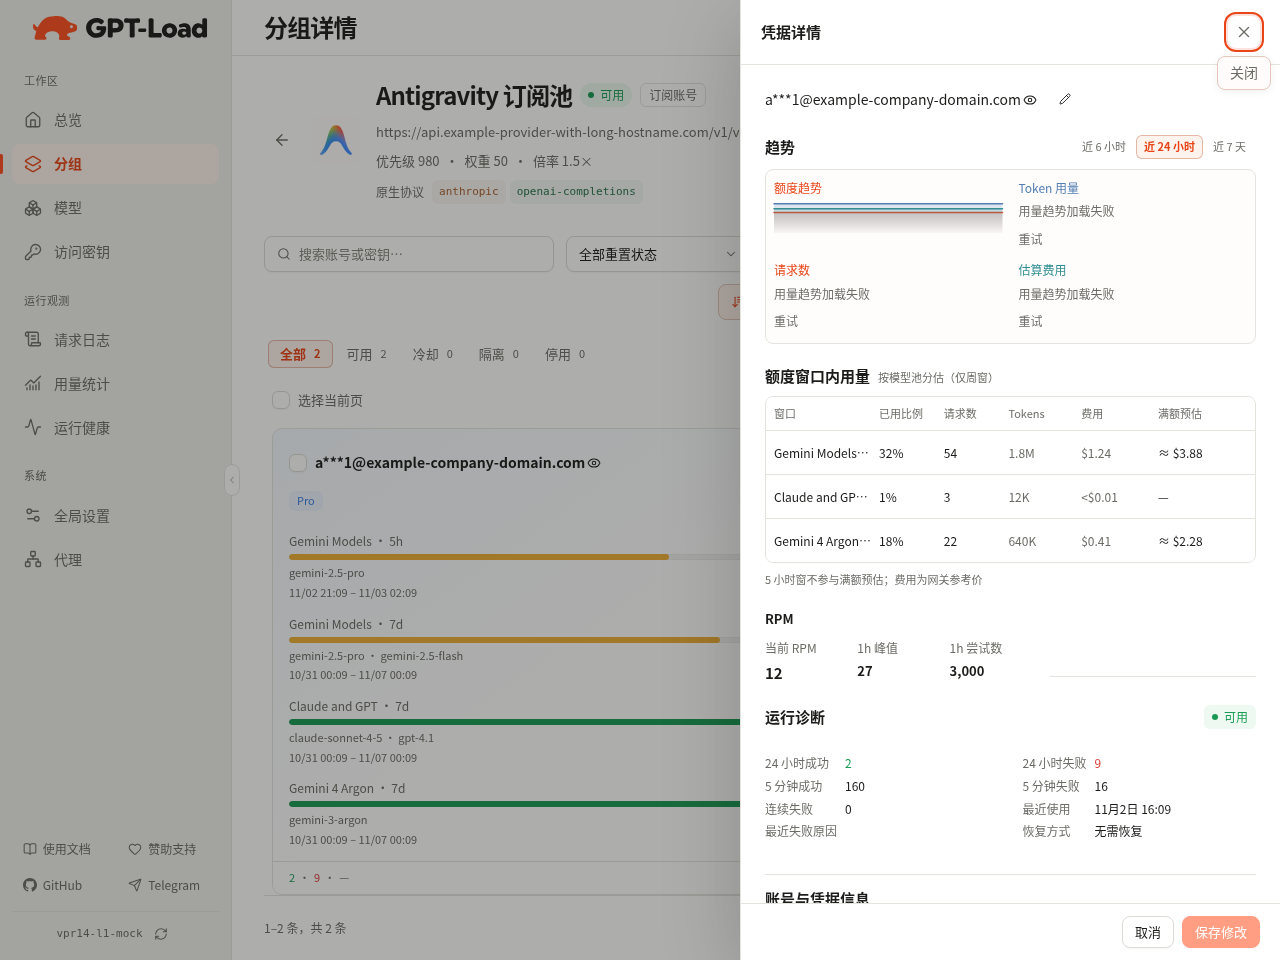
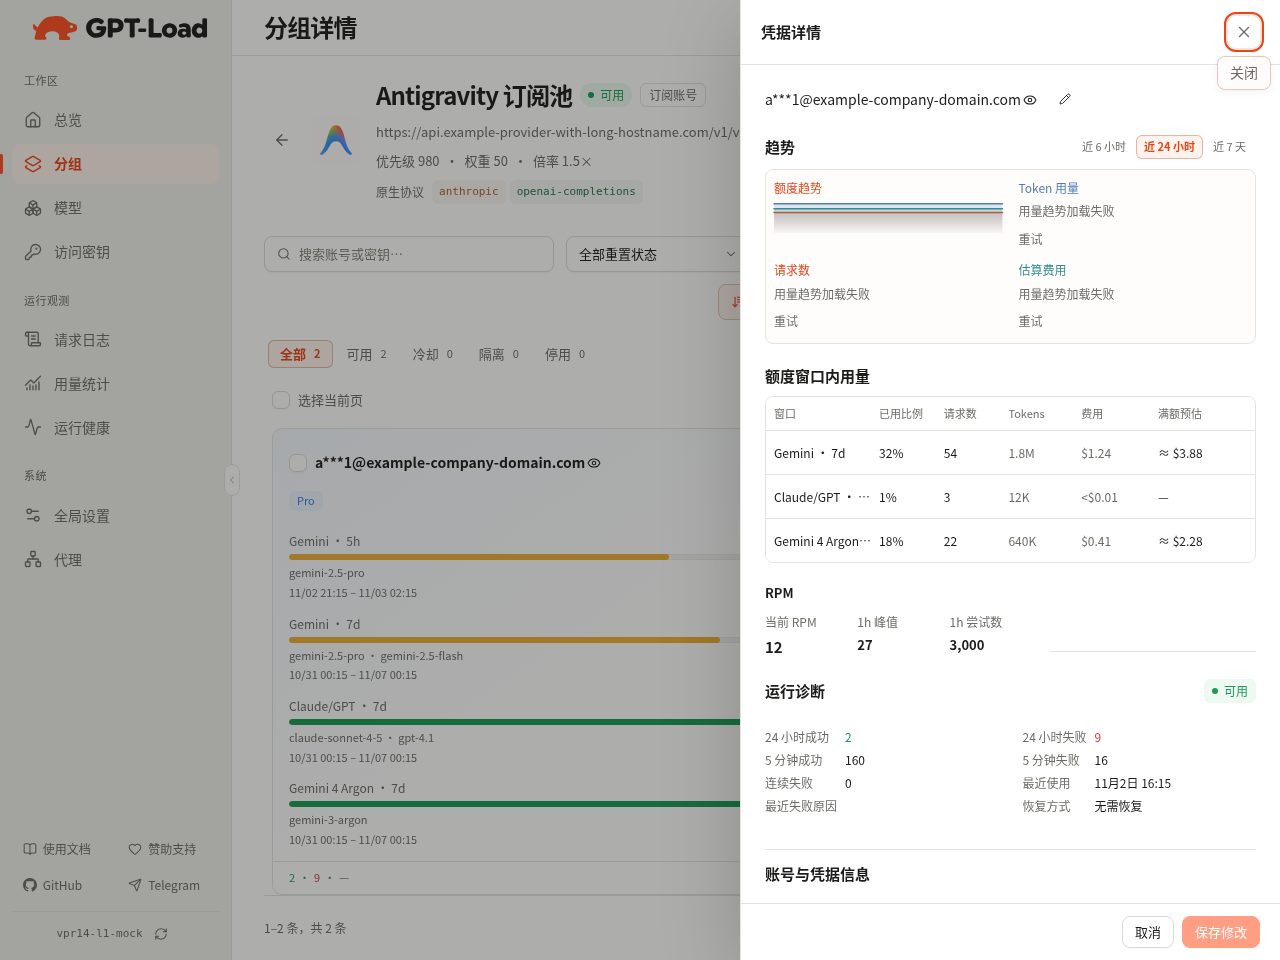
evidence(pr14): retake L1 @c2946497 habit Gemini/Claude-GPT labels

diff --git a/README.md b/README.md
@@ -1,10 +1,6 @@
-# PR#14 L1 Evidence (fixture)
+# PR#14 L1 evidence (window usage)
 
-本机 Vite + mock API 实拍（PR 分支 `ef3c46ed` 真实 `CredentialWindowUsage.vue`）。
-未部署 gate；非 `/workspace/agy-quota-mock/prototype.jpg` 设计稿。
-
-## Fixtures（脱敏）
-- AGY: group 20 / credential `20001` / `agy.fixture+l1@example-company-domain.com`
-- Codex: group 1 / credential `1001` / `codex.fixture+l1@example-company-domain.com`
-
-Mock 源：`/workspace/gpt-load-pr14-l1/mock/mockdata.py`
+- Head under test: `c2946497` (`feat/agy-pool-weekly-quota`)
+- Fixture mock (not live gate): AGY group20/cred 20001; Codex group1/cred 1001
+- Labels (habit): `Gemini · 7d` / `Claude/GPT · 7d` / `Gemini 4 Argon · 7d`
+- No pool hint/footnote; Codex `每周额度 · 7d` still present
